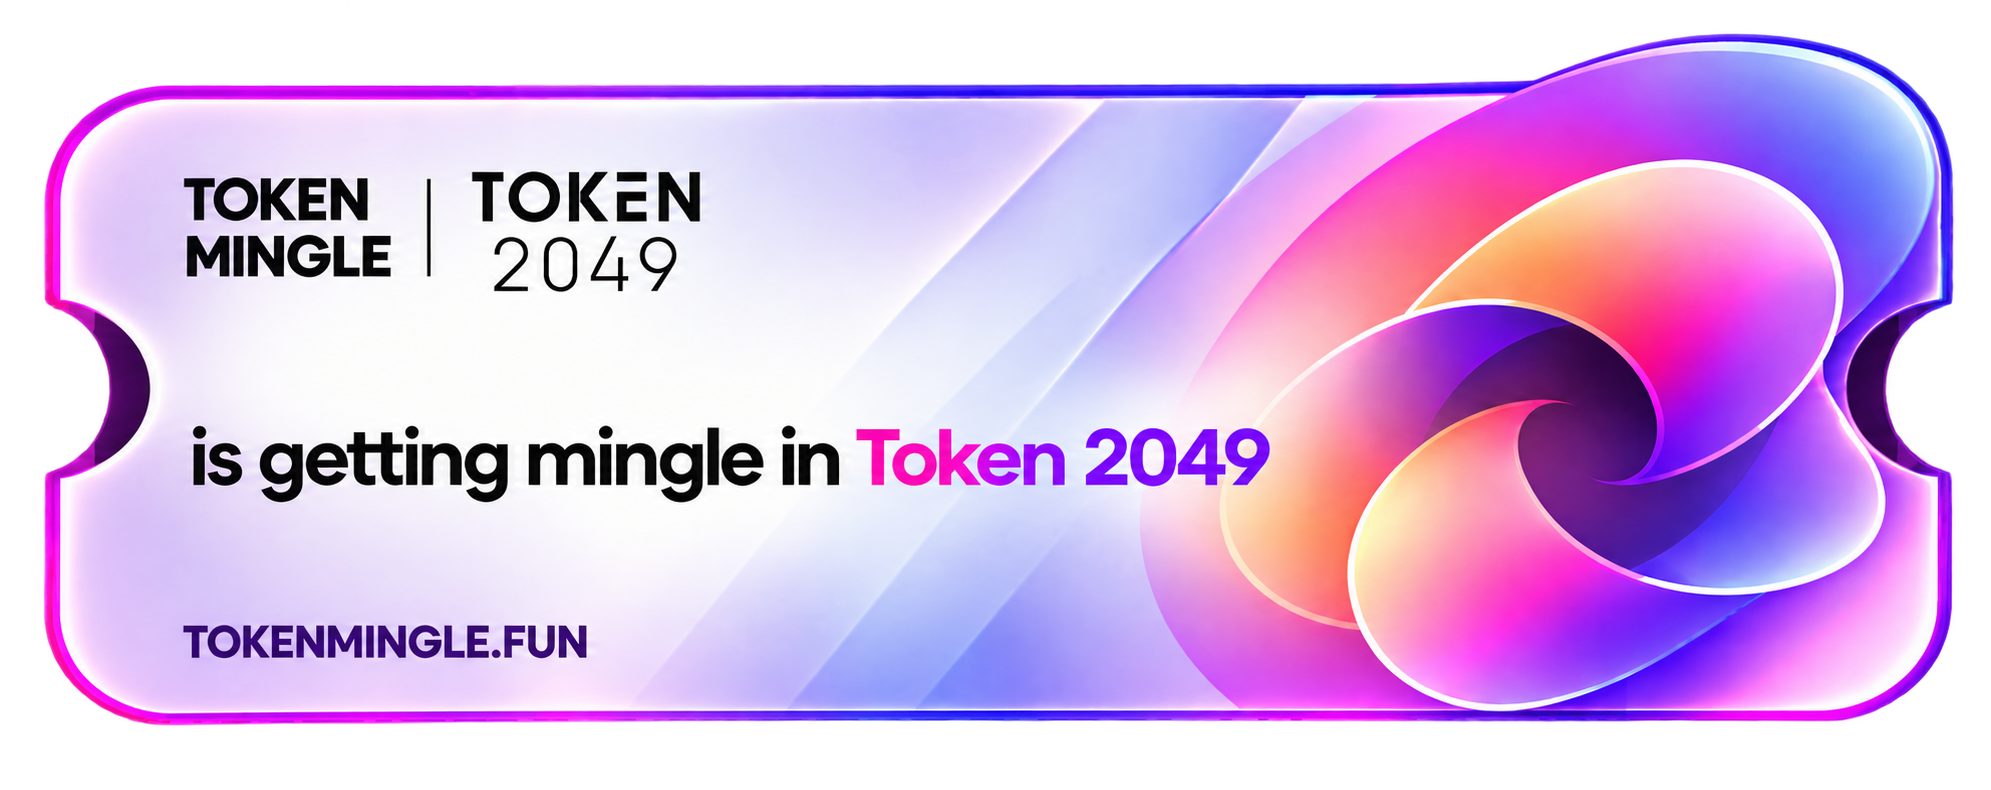
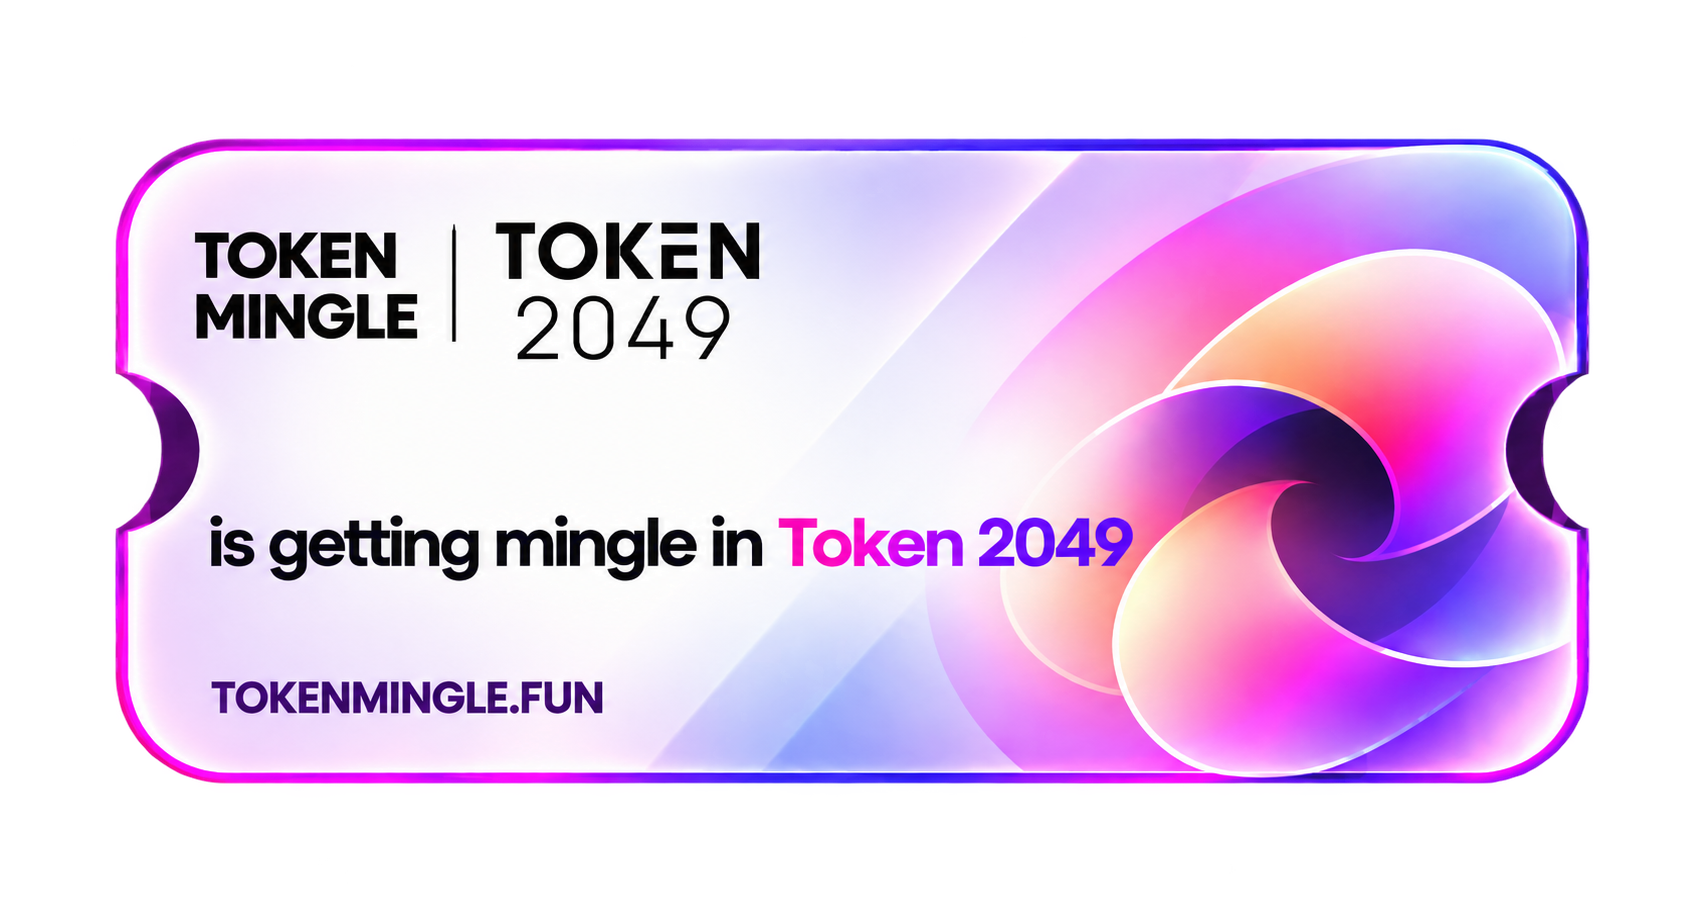
Center and scale intent card while preserving text anchors

diff --git a/app/api/og/route.tsx b/app/api/og/route.tsx
@@ -51,38 +51,46 @@ export async function GET(request: Request) {
             }}
           />
 
-          {/* Card ticket image */}
-          <img
-            src={bgUrl}
-            style={{
-              position: 'absolute',
-              top: '-45px',
-              left: '0px',
-              width: '1200px',
-              height: '630px',
-              objectFit: 'contain',
-            }}
-          />
-
-          {/* Avatar circle removed by user request, keeping only text */}
-
-          {/* Username on the new card: left-aligned above 'is getting mingle' */}
+          {/* Inner container to center the card and lock text to it */}
           <div
             style={{
-              position: 'absolute',
-              top: '205px',
-              left: '122px',
               display: 'flex',
-              justifyContent: 'flex-start',
-              fontSize: 74,
-              fontWeight: 800,
-              color: '#000000',
-              fontFamily: '"Montserrat"',
-              letterSpacing: '-0.02em',
-              whiteSpace: 'nowrap',
+              position: 'relative',
+              width: '1000px',
+              height: '541px',
             }}
           >
-            {username}
+            {/* Card ticket image */}
+            <img
+              src={bgUrl}
+              style={{
+                position: 'absolute',
+                top: '0px',
+                left: '0px',
+                width: '1000px',
+                height: '541px',
+                objectFit: 'contain',
+              }}
+            />
+
+            {/* Username on the new card: left-aligned above 'is getting mingle' */}
+            <div
+              style={{
+                position: 'absolute',
+                top: '252px',
+                left: '115.5px',
+                display: 'flex',
+                justifyContent: 'flex-start',
+                fontSize: 64,
+                fontWeight: 800,
+                color: '#000000',
+                fontFamily: '"Montserrat"',
+                letterSpacing: '-0.02em',
+                whiteSpace: 'nowrap',
+              }}
+            >
+              {username}
+            </div>
           </div>
         </div>
       ),

diff --git a/app/page.tsx b/app/page.tsx
@@ -44,7 +44,7 @@ export default function Home() {
             className={`absolute transition-all duration-500 ${
               linked ? "opacity-100 scale-100" : "opacity-0 scale-75 pointer-events-none"
             } flex items-center justify-start`}
-            style={{ top: "calc(45% + 5px)", left: "calc(11.2% - 12px)", transform: "translateY(-50%)" }}
+            style={{ top: "calc(43% + 20px)", left: "calc(11.4% + 1.5px)", transform: "translateY(-50%)" }}
           >
             <span className="text-black font-montserrat font-extrabold whitespace-nowrap tracking-tight" style={{ fontSize: "clamp(16px, 5.5vw, 42px)" }}>
               {mockUser.name.replace('@', '')}
